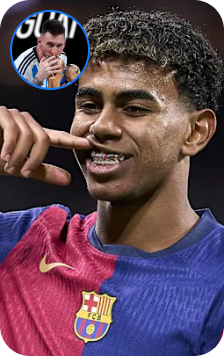
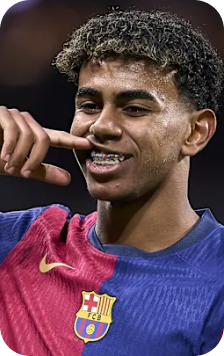
Updata Home Screen
add story section  and post items

Changed region(s): [[0.0312, 0.0309, 0.4062, 0.2781]]

diff --git a/lib/modules/HomeScreen/HomeScreen.dart b/lib/modules/HomeScreen/HomeScreen.dart
@@ -1,5 +1,7 @@
 import 'package:facebook/core/AppColors.dart';
-import 'package:facebook/modules/HomeScreen/CreatePost.dart';
+import 'package:facebook/modules/HomeScreen/widgets/CreatePost.dart';
+import 'package:facebook/modules/HomeScreen/widgets/PostCard.dart';
+import 'package:facebook/modules/HomeScreen/widgets/StoresSection.dart';
 import 'package:flutter/material.dart';
 
 class HomeScreen extends StatelessWidget {
@@ -7,6 +9,8 @@ class HomeScreen extends StatelessWidget {
 
   @override
   Widget build(BuildContext context) {
+    var size = MediaQuery.of(context).size;
+
     return DefaultTabController(
       length: 6,
       child: Scaffold(
@@ -20,14 +24,18 @@ class HomeScreen extends StatelessWidget {
               fontWeight: FontWeight.w800,
             ),
           ),
-          actions: [
+          actions: const [
             Icon(Icons.add_box_outlined),
             SizedBox(width: 12),
             Icon(Icons.search),
             SizedBox(width: 12),
             Icon(Icons.message),
+            SizedBox(width: 12),
           ],
-          bottom: TabBar(
+          bottom: const TabBar(
+            indicatorColor: Appcolors.blue,
+            labelColor: Appcolors.blue,
+            unselectedLabelColor: Colors.grey,
             tabs: [
               Tab(icon: Icon(Icons.home)),
               Tab(icon: Icon(Icons.ondemand_video)),
@@ -36,23 +44,57 @@ class HomeScreen extends StatelessWidget {
               Tab(icon: Icon(Icons.add_alert_sharp)),
               Tab(
                 icon: CircleAvatar(
-                  child: Image.asset("assets/images/goat.png"),
+                  radius: 14,
+                  backgroundImage: AssetImage("assets/images/goat.png"),
                 ),
               ),
             ],
           ),
         ),
-        body: CustomScrollView(
-          slivers: [
-            SliverToBoxAdapter(
-              child: Column(
-                children: [
-                  CreatePost(),
-                  Divider(color: Appcolors.grey.withAlpha(50), thickness: 3),
-                ],
-              ),
+        body: TabBarView(
+          children: [
+            // Tab 1: Home Feed
+            CustomScrollView(
+              slivers: [
+                SliverToBoxAdapter(
+                  child: Column(
+                    children: [
+                      const CreatePost(),
+                      Divider(
+                        color: Appcolors.grey.withOpacity(0.2),
+                        thickness: 3,
+                      ),
+                    ],
+                  ),
+                ),
+                SliverToBoxAdapter(
+                  child: SizedBox(
+                    height: size.height * 0.23
+                    ,
+                    child: const StoresSection(),
+                  ),
+                ),
+                // Add Posts SliverList here
+                SliverToBoxAdapter(
+                  child: Divider()
+                )
+                ,SliverList(
+                  delegate: SliverChildBuilderDelegate(
+                    (context, index) {
+                      return const  PostCard();
+                    },
+                    childCount: 10,
+                  ),
+                )
+              ],
             ),
 
+            // Tabs 2 - 6 Placeholders
+            const Center(child: Text("Watch")),
+            const Center(child: Text("Marketplace")),
+            const Center(child: Text("Profile")),
+            const Center(child: Text("Notifications")),
+            const Center(child: Text("Menu")),
           ],
         ),
       ),

diff --git a/lib/modules/HomeScreen/widgets/CreateStores.dart b/lib/modules/HomeScreen/widgets/CreateStores.dart
@@ -1,0 +1,92 @@
+import 'package:flutter/material.dart';
+
+import '../../../core/AppColors.dart';
+
+class CreateStores extends StatelessWidget {
+  const CreateStores({super.key});
+
+  @override
+  Widget build(BuildContext context) {
+    return Container(
+      width: 110,
+      decoration: BoxDecoration(
+        color: Colors.white,
+        borderRadius: BorderRadius.circular(16),
+        boxShadow: [
+          BoxShadow(
+            color: Colors.black.withOpacity(0.08),
+            blurRadius: 6,
+            offset: const Offset(0, 2),
+          ),
+        ],
+      ),
+      child: ClipRRect(
+        borderRadius: BorderRadius.circular(16),
+        child: Stack(
+          children: [
+            Column(
+              children: [
+                // الصورة العلوية
+                Expanded(
+                  flex: 3,
+                  child: Image.asset(
+                    "assets/images/goatK.png",
+                    width: double.infinity,
+                    fit: BoxFit.cover,
+                  ),
+                ),
+                // المساحة البيضاء السفلية للنص
+                Expanded(
+                  flex: 2,
+                  child: Container(
+                    color: Colors.white,
+                    alignment: Alignment.bottomCenter,
+                    padding: const EdgeInsets.only(bottom: 8),
+                    child: const Text(
+                      "Create a\nStory",
+                      textAlign: TextAlign.center,
+                      style: TextStyle(
+                        fontSize: 16,
+                        fontWeight: FontWeight.w500,
+                        color: Colors.black,
+                        height: 1.2,
+                      ),
+                    ),
+                  ),
+                ),
+              ],
+            ),
+            // أيقونة الزائد (+) في المنتصف
+            Positioned(
+              top: 85, // تضبيط مكان الزر ليكون بين الصورة والنص
+              left: 0,
+              right: 0,
+              child: Center(
+                child: Container(
+                  padding: const EdgeInsets.all(3),
+                  decoration: const BoxDecoration(
+                    color: Colors.white,
+                    shape: BoxShape.circle,
+                  ),
+                  child: Container(
+                    width: 32,
+                    height: 32,
+                    decoration: const BoxDecoration(
+                      color: Appcolors.blue, // لون فيسبوك الأزرق
+                      shape: BoxShape.circle,
+                    ),
+                    child: const Icon(
+                      Icons.add,
+                      color: Colors.white,
+                      size: 22,
+                    ),
+                  ),
+                ),
+              ),
+            ),
+          ],
+        ),
+      ),
+    );
+  }
+}

diff --git a/lib/modules/HomeScreen/widgets/CardStory.dart b/lib/modules/HomeScreen/widgets/CardStory.dart
@@ -1,0 +1,52 @@
+import 'package:flutter/material.dart';
+
+class StoryCard extends StatelessWidget {
+  final String imagePath;
+  final String profilePath;
+
+  const StoryCard({
+    super.key,
+    required this.imagePath,
+    required this.profilePath,
+  });
+
+  @override
+  Widget build(BuildContext context) {
+    return Container(
+      width: 110,
+      decoration: BoxDecoration(
+        borderRadius: BorderRadius.circular(16),
+        image: DecorationImage(
+          image: AssetImage(imagePath),
+          fit: BoxFit.cover,
+        ),
+      ),
+      child: ClipRRect(
+        borderRadius: BorderRadius.circular(16),
+        child: Stack(
+          children: [
+            // صورة البروفايل بأعلى اليسار مع الإطار الأزرق
+            Positioned(
+              top: 8,
+              left: 8,
+              child: Container(
+                padding: const EdgeInsets.all(2),
+                decoration: BoxDecoration(
+                  shape: BoxShape.circle,
+                  border: Border.all(
+                    color: const Color(0xFF1877F2), // الإطار الأزرق
+                    width: 2.5,
+                  ),
+                ),
+                child: CircleAvatar(
+                  radius: 18,
+                  backgroundImage: AssetImage(profilePath),
+                ),
+              ),
+            ),
+          ],
+        ),
+      ),
+    );
+  }
+}

diff --git a/lib/modules/HomeScreen/widgets/StoresSection.dart b/lib/modules/HomeScreen/widgets/StoresSection.dart
@@ -1,0 +1,35 @@
+import 'package:flutter/material.dart';
+import 'CardStory.dart';
+import 'CreateStores.dart';
+// import 'StoreCard.dart'; // Import your normal story card widget here
+
+class StoresSection extends StatelessWidget {
+  const StoresSection({super.key});
+
+  @override
+  Widget build(BuildContext context) {
+    return ListView.separated(
+      padding: const EdgeInsets.symmetric(horizontal: 12, vertical: 8),
+      scrollDirection: Axis.horizontal,
+      // Fixed Axis syntax
+      itemCount: 20,
+      separatorBuilder: (context, index) {
+        return const SizedBox(
+            width: 10); // Changed height to width for horizontal scroll
+      },
+      itemBuilder: (context, index) {
+        if (index == 0) {
+          return const SizedBox(
+            width: 110, // Explicit width for horizontal items
+            child: CreateStores(),
+          );
+        }
+
+        // Return regular story item for other indices
+        return const StoryCard(imagePath: 'assets/images/lamen.png',
+          profilePath: "assets/images/goat1.png",
+        );
+      },
+    );
+  }
+}

diff --git a/lib/modules/HomeScreen/widgets/PostCard.dart b/lib/modules/HomeScreen/widgets/PostCard.dart
@@ -1,0 +1,29 @@
+import 'package:flutter/material.dart';
+
+class PostCard extends StatelessWidget {
+  const PostCard({super.key});
+
+  @override
+  Widget build(BuildContext context) {
+    return Column(
+        children: [
+    ListTile(
+    leading: CircleAvatar(child: Image.asset("assets/images/lamen.png")) ,
+    title: Text("Mohamed") ,
+    subtitle: Text("8h ago"),
+    trailing: Icon(Icons.more_horiz_outlined),
+    ),
+    SizedBox(height: 10,),
+    Image.asset("assets/images/lamen.png"),
+    SizedBox(height: 10,),
+    Row(
+    children: [
+      IconButton(onPressed: (){}, icon: Icon(Icons.favorite_border_outlined)),
+      IconButton(onPressed: (){}, icon: Icon(Icons.comment_outlined)),
+      IconButton(onPressed: (){}, icon: Icon(Icons.send_outlined)),Spacer(),
+      IconButton(onPressed: (){}, icon: Icon(Icons.bookmark_outlined)),
+    ],)
+    ]
+    );
+  }
+}

diff --git a/lib/main.dart b/lib/main.dart
@@ -11,8 +11,9 @@ class MyApp extends StatelessWidget {
   // This widget is the root of your application.
   @override
   Widget build(BuildContext context) {
-    return MaterialApp(
 
+    return MaterialApp(
+debugShowCheckedModeBanner: false,
       home: SplashScreen(),
     );
   }

diff --git a/lib/modules/HomeScreen/widgets/CreatePost.dart b/lib/modules/HomeScreen/widgets/CreatePost.dart
@@ -1,6 +1,6 @@
 import 'package:flutter/material.dart';
 
-import '../../core/AppColors.dart';
+import '../../../core/AppColors.dart';
 
 class CreatePost extends StatelessWidget {
   const CreatePost({super.key});
